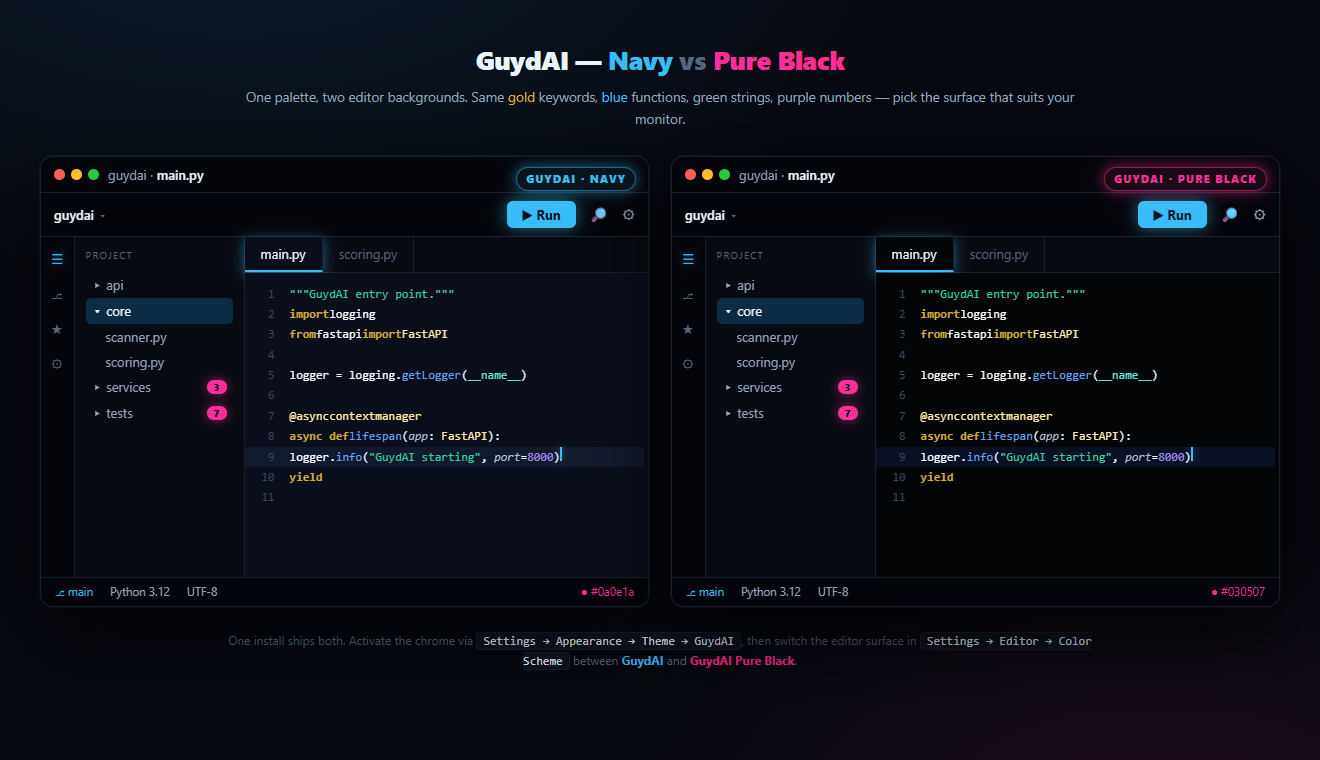
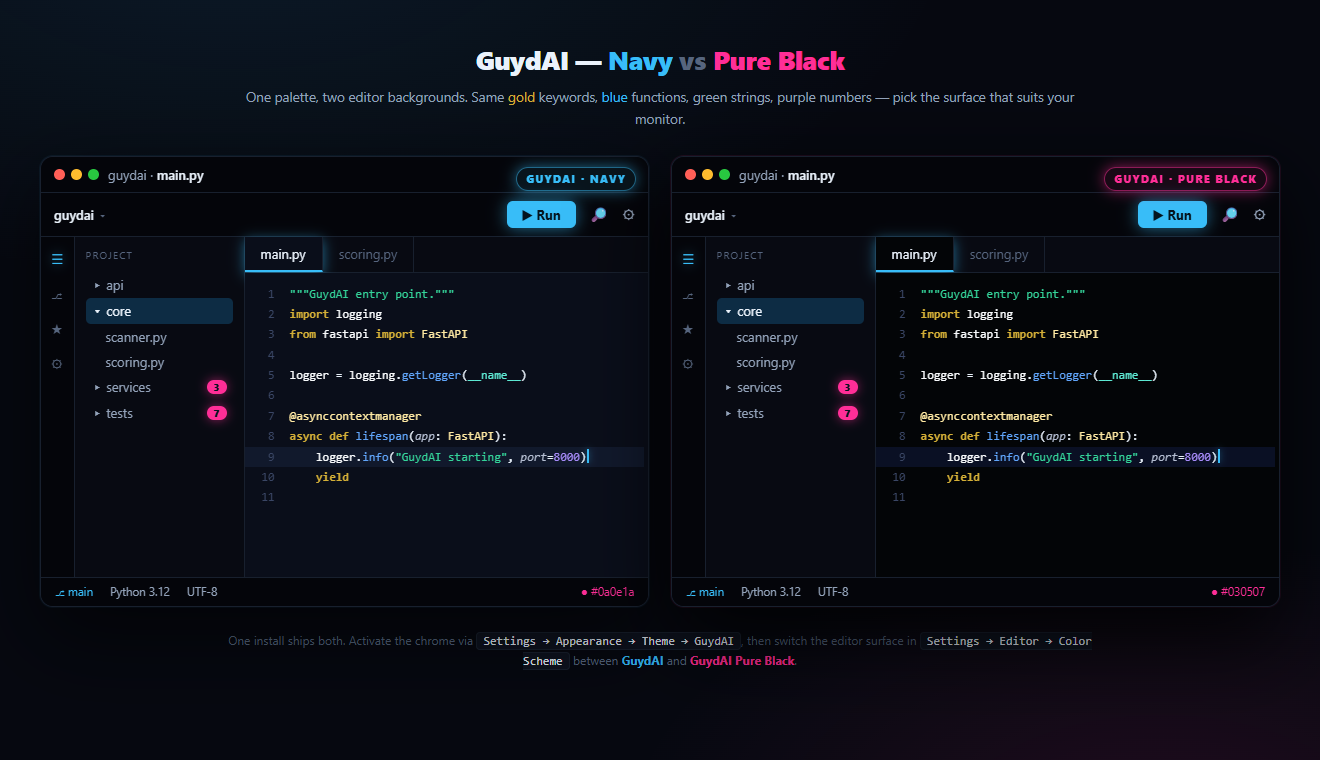
Add classic-vs-Islands preview; fix code spacing in mockups
- New preview/islands.{html,png} showing the classic and Islands layouts
- Fix collapsed spaces/indentation in all editor mockups (flex rows were
  dropping whitespace-only text nodes) and re-render the PNGs
- README and PUBLISH reference the new image

diff --git a/preview/islands.html b/preview/islands.html
@@ -3,24 +3,17 @@
 <head>
 <meta charset="utf-8">
 <meta name="viewport" content="width=device-width, initial-scale=1">
-<title>GuydAI — Navy vs Pure Black</title>
+<title>GuydAI — Classic vs Islands</title>
 <style>
   :root {
     font-family: -apple-system, BlinkMacSystemFont, 'Segoe UI', Roboto, sans-serif;
-    --black:#04050a; --chrome:#080a12; --card:#0e131f; --bd:#18202e; --bdl:#263141;
-    --blue:#38bdf8; --pink:#ff2e97; --green:#34d399;
+    --black:#04050a; --chrome:#080a12; --card:#0e131f; --bd:#18202e;
+    --blue:#38bdf8; --pink:#ff2e97;
     --tx:#eaf2fb; --dim:#93a3ba; --mut:#56657e;
     --sel:#0d2c44; --ink:#04141f;
     --pglow:rgba(56,189,248,.55); --kglow:rgba(255,46,151,.55);
-
-    /* per-scheme editor bg */
-    --navy:#0a0e1a; --navyCr:#11192c;
-    --black2:#030507; --black2Cr:#0a1024;
-
-    /* syntax (shared) */
-    --kw:#d4af37; --st:#34d399; --nu:#a78bfa; --cm:#6b7591;
-    --fn:#60a5fa; --cl:#ffe9a3; --bi:#5eead4; --pa:#b4bdd1; --df:#f8fafc;
-    --ln:#3a4665;
+    --ed:#030507; --cr:#0a1024;
+    --island:#030507; --gap:#1a2236;
   }
   * { box-sizing: border-box; }
   html { background:#060810; }
@@ -29,133 +22,87 @@
       radial-gradient(1200px 600px at 18% -10%, rgba(56,189,248,.10), transparent 60%),
       radial-gradient(900px 500px at 88% 110%, rgba(255,46,151,.10), transparent 60%),
       #060810;
-    color:var(--tx); padding:42px 26px 60px;
+    color:var(--tx); padding:42px 26px 52px;
     display:flex; flex-direction:column; align-items:center;
-    min-height:100vh;
   }
   .hdr { text-align:center; margin:0 0 26px; max-width:880px; }
   h1 { font-size:26px; font-weight:800; letter-spacing:-.4px; margin:0 0 8px; }
   h1 b { color:var(--blue); } h1 i { color:var(--pink); font-style:normal; }
   .cap { color:var(--dim); font-size:13.5px; margin:0; line-height:1.65; }
-  .cap .k { color:var(--pink); } .cap .b { color:var(--blue); } .cap .g { color:#d4af37; }
+  .cap .k { color:var(--pink); } .cap .b { color:var(--blue); }
 
-  .pair {
-    display:grid; grid-template-columns:1fr 1fr; gap:22px;
-    width:100%; max-width:1240px;
-  }
+  .pair { display:grid; grid-template-columns:1fr 1fr; gap:22px; width:100%; max-width:1240px; }
 
-  .win {
-    border-radius:13px; overflow:hidden; border:1px solid var(--bd);
-    box-shadow:0 30px 80px rgba(0,0,0,.65);
-    font-size:13px; position:relative;
-    backdrop-filter: blur(4px);
-  }
-  .win.navy   { box-shadow:0 30px 80px rgba(0,0,0,.6), 0 0 0 1px rgba(56,189,248,.07); }
-  .win.pb     { box-shadow:0 30px 80px rgba(0,0,0,.85), 0 0 0 1px rgba(255,46,151,.10); }
+  .win { border-radius:13px; overflow:hidden; border:1px solid var(--bd); font-size:13px; position:relative;
+    box-shadow:0 30px 80px rgba(0,0,0,.7); display:flex; flex-direction:column; }
+  .classic { box-shadow:0 30px 80px rgba(0,0,0,.7), 0 0 0 1px rgba(56,189,248,.07); }
+  .isl     { box-shadow:0 30px 80px rgba(0,0,0,.7), 0 0 0 1px rgba(255,46,151,.10); background:var(--gap); }
 
-  .label {
-    position:absolute; top:10px; right:12px; z-index:2;
-    font-size:10.5px; font-weight:800; letter-spacing:1.4px; text-transform:uppercase;
-    padding:4px 9px; border-radius:999px; border:1px solid;
-  }
-  .win.navy .label { color:var(--blue); border-color:rgba(56,189,248,.5); background:rgba(56,189,248,.08); box-shadow:0 0 14px var(--pglow); }
-  .win.pb   .label { color:var(--pink); border-color:rgba(255,46,151,.5); background:rgba(255,46,151,.08); box-shadow:0 0 14px var(--kglow); }
+  .label { position:absolute; top:10px; right:12px; z-index:2; font-size:10.5px; font-weight:800;
+    letter-spacing:1.4px; text-transform:uppercase; padding:4px 9px; border-radius:999px; border:1px solid; }
+  .classic .label { color:var(--blue); border-color:rgba(56,189,248,.5); background:rgba(56,189,248,.08); box-shadow:0 0 14px var(--pglow); }
+  .isl .label     { color:var(--pink); border-color:rgba(255,46,151,.5); background:rgba(255,46,151,.08); box-shadow:0 0 14px var(--kglow); }
 
-  .titlebar {
-    display:flex; align-items:center; gap:9px;
-    padding:9px 13px; background:var(--black); color:var(--dim);
-    border-bottom:1px solid var(--bd);
-  }
-  .dots { display:flex; gap:6px; }
-  .dots i { width:11px; height:11px; border-radius:50%; display:block; }
+  .titlebar { display:flex; align-items:center; gap:9px; padding:9px 13px; color:var(--dim); }
+  .dots { display:flex; gap:6px; } .dots i { width:11px; height:11px; border-radius:50%; display:block; }
   .titlebar .t b { color:var(--tx); font-weight:600; }
-
-  .toolbar {
-    display:flex; align-items:center; gap:13px;
-    padding:8px 13px; background:var(--black);
-    border-bottom:1px solid var(--bd);
-  }
-  .toolbar .proj { color:var(--tx); font-weight:600; }
-  .toolbar .proj small { color:var(--mut); }
-  .run {
-    margin-left:auto; background:var(--blue); color:var(--ink);
-    padding:5px 15px; border-radius:6px; font-weight:700;
-    box-shadow:0 0 16px var(--pglow);
-  }
+  .toolbar { display:flex; align-items:center; gap:13px; padding:8px 13px; }
+  .toolbar .proj { color:var(--tx); font-weight:600; } .toolbar .proj small { color:var(--mut); }
+  .run { margin-left:auto; background:var(--blue); color:var(--ink); padding:5px 15px; border-radius:6px; font-weight:700; box-shadow:0 0 16px var(--pglow); }
   .ic { color:var(--dim); font-size:15px; }
 
-  .bodyrow { display:flex; background:var(--chrome); min-height:340px; }
-  .stripe {
-    display:flex; flex-direction:column; gap:16px;
-    padding:12px 10px; background:var(--black);
-    border-right:1px solid var(--bd); color:var(--mut); font-size:14px;
-  }
+  .classic .titlebar, .classic .toolbar { background:var(--black); border-bottom:1px solid var(--bd); }
+
+  .bodyrow { display:flex; min-height:340px; flex:1; }
+  .stripe { display:flex; flex-direction:column; gap:16px; padding:12px 10px; color:var(--mut); font-size:14px; }
   .stripe .on { color:var(--blue); text-shadow:0 0 11px var(--pglow); }
-  .tree {
-    width:170px; padding:11px 11px;
-    border-right:1px solid var(--bd); color:var(--dim);
-  }
+  .tree { width:170px; padding:11px; color:var(--dim); }
   .tree .h { color:var(--mut); text-transform:uppercase; font-size:10px; letter-spacing:1.2px; margin-bottom:10px; }
   .tree .row { padding:4px 6px; border-radius:5px; white-space:nowrap; display:flex; align-items:center; }
   .tree .row.sel { background:var(--sel); color:var(--tx); }
   .tree .row.ind { padding-left:20px; }
-  .badge {
-    background:var(--pink); color:var(--ink);
-    border-radius:9px; padding:0 7px; font-size:10px; font-weight:800;
-    margin-left:auto; box-shadow:0 0 11px var(--kglow);
-  }
+  .badge { background:var(--pink); color:var(--ink); border-radius:9px; padding:0 7px; font-size:10px; font-weight:800; margin-left:auto; box-shadow:0 0 11px var(--kglow); }
 
-  .main { flex:1; display:flex; flex-direction:column; min-width:0; position:relative; }
-  .tabs { display:flex; background:var(--chrome); border-bottom:1px solid var(--bd); }
-  .tab { padding:8px 16px; color:var(--mut); border-right:1px solid var(--bd); }
-  .tab.active { color:var(--tx); border-bottom:2px solid var(--blue); box-shadow:0 3px 13px var(--pglow); }
-
-  .editor {
-    flex:1; padding:11px 4px 16px 0;
-    font-family:'JetBrains Mono',Consolas,Menlo,monospace;
-    font-size:12px; line-height:1.7;
-  }
-  .navy .tab.active { background:var(--navy); }
-  .navy .editor    { background:var(--navy); }
-  .navy .line.cr   { background:var(--navyCr); }
-
-  .pb .tab.active { background:var(--black2); }
-  .pb .editor    { background:var(--black2); }
-  .pb .line.cr   { background:var(--black2Cr); }
-
-  .line { display:block; white-space:pre; }
-  .ln { display:inline-block; color:var(--ln); width:30px; text-align:right; margin-right:15px; user-select:none; }
-  .kw{color:var(--kw);font-weight:700;} .st{color:var(--st);} .nu{color:var(--nu);}
-  .cm{color:var(--cm);font-style:italic;} .fn{color:var(--fn);} .cl{color:var(--cl);}
-  .bi{color:var(--bi);} .pa{color:var(--pa);font-style:italic;} .df{color:var(--df);}
+  .main { flex:1; display:flex; flex-direction:column; min-width:0; }
+  .tabs { display:flex; }
+  .tab { padding:8px 16px; color:var(--mut); }
+  .tab.active { color:var(--tx); border-bottom:2px solid var(--blue); box-shadow:0 3px 13px var(--pglow); background:var(--ed); }
+  .editor { flex:1; background:var(--ed); padding:11px 4px 16px 0; font-family:'JetBrains Mono',Consolas,Menlo,monospace; font-size:12px; line-height:1.7; }
+  .line { display:block; white-space:pre; } .line.cr { background:var(--cr); }
+  .ln { display:inline-block; color:#3a4665; width:30px; text-align:right; margin-right:15px; }
+  .kw{color:#d4af37;font-weight:700;} .st{color:#34d399;} .nu{color:#a78bfa;}
+  .fn{color:#60a5fa;} .cl{color:#ffe9a3;} .bi{color:#5eead4;} .pa{color:#b4bdd1;font-style:italic;} .df{color:#f8fafc;}
   .caret{display:inline-block;width:2px;height:14px;background:var(--blue);vertical-align:-2px;box-shadow:0 0 7px var(--pglow);}
 
-  .statusbar {
-    display:flex; align-items:center; gap:17px;
-    padding:6px 14px; background:var(--black);
-    border-top:1px solid var(--bd); color:var(--dim); font-size:11.5px;
-  }
-  .statusbar .br { color:var(--blue); }
-  .statusbar .enc { color:var(--pink); margin-left:auto; }
+  .statusbar { display:flex; align-items:center; gap:17px; padding:6px 14px; color:var(--dim); font-size:11.5px; }
+  .statusbar .br { color:var(--blue); } .statusbar .enc { color:var(--pink); margin-left:auto; }
 
-  .footnote {
-    margin-top:24px; color:var(--mut); font-size:12px; text-align:center;
-    max-width:880px; line-height:1.6;
-  }
-  .footnote code { color:var(--tx); background:#0e131f; padding:1px 6px; border-radius:4px; border:1px solid var(--bd); }
+  /* classic: flat, edge-to-edge panels separated by 1px lines */
+  .classic .bodyrow { background:var(--chrome); }
+  .classic .stripe { background:var(--black); border-right:1px solid var(--bd); }
+  .classic .tree { border-right:1px solid var(--bd); }
+  .classic .tabs { background:var(--chrome); border-bottom:1px solid var(--bd); }
+  .classic .tab { border-right:1px solid var(--bd); }
+  .classic .statusbar { background:var(--black); border-top:1px solid var(--bd); }
+
+  /* islands: rounded floating panels on a lighter main-window background */
+  .isl .bodyrow { gap:5px; padding:0 5px; }
+  .isl .tree, .isl .main { background:var(--island); border-radius:10px; overflow:hidden; }
+  .isl .tabs { background:var(--island); }
+  .isl .tab.active { background:var(--island); }
+  .isl .statusbar { padding-top:7px; }
 </style>
 </head>
 <body>
   <div class="hdr">
-    <h1>GuydAI — <b>Navy</b> <span style="color:var(--mut)">vs</span> <i>Pure Black</i></h1>
-    <p class="cap">One palette, two editor backgrounds. Same <span class="g">gold</span> keywords,
-      <span class="b">blue</span> functions, green strings, purple numbers — pick the surface that suits your monitor.</p>
+    <h1>GuydAI — <b>Classic</b> <span style="color:var(--mut)">vs</span> <i>Islands</i></h1>
+    <p class="cap">Same Cyber Ice accents, two layouts. <span class="b">Classic</span> keeps flat, edge-to-edge panels;
+      <span class="k">Islands</span> floats each tool window as a rounded pure-black card (2025.3+).</p>
   </div>
 
   <div class="pair">
-    <!-- ── LEFT: GuydAI (Navy) ── -->
-    <div class="win navy">
-      <span class="label">GuydAI · Navy</span>
+    <div class="win classic">
+      <span class="label">GuydAI · Classic</span>
       <div class="titlebar">
         <div class="dots"><i style="background:#ff5f57"></i><i style="background:#febc2e"></i><i style="background:#28c840"></i></div>
         <div class="t">guydai · <b>main.py</b></div>
@@ -193,12 +140,11 @@
           </div>
         </div>
       </div>
-      <div class="statusbar"><span class="br">&#9095; main</span><span>Python 3.12</span><span>UTF-8</span><span class="enc">&#9679; #0a0e1a</span></div>
+      <div class="statusbar"><span class="br">&#9095; main</span><span>Python 3.12</span><span>UTF-8</span><span class="enc">&#9679; flat</span></div>
     </div>
 
-    <!-- ── RIGHT: GuydAI Pure Black ── -->
-    <div class="win pb">
-      <span class="label">GuydAI · Pure Black</span>
+    <div class="win isl">
+      <span class="label">GuydAI · Islands</span>
       <div class="titlebar">
         <div class="dots"><i style="background:#ff5f57"></i><i style="background:#febc2e"></i><i style="background:#28c840"></i></div>
         <div class="t">guydai · <b>main.py</b></div>
@@ -236,15 +182,8 @@
           </div>
         </div>
       </div>
-      <div class="statusbar"><span class="br">&#9095; main</span><span>Python 3.12</span><span>UTF-8</span><span class="enc">&#9679; #030507</span></div>
+      <div class="statusbar"><span class="br">&#9095; main</span><span>Python 3.12</span><span>UTF-8</span><span class="enc">&#9679; islands</span></div>
     </div>
   </div>
-
-  <p class="footnote">
-    One install ships both. Activate the chrome via
-    <code>Settings → Appearance → Theme → GuydAI</code>, then switch the editor surface in
-    <code>Settings → Editor → Color Scheme</code> between <b style="color:var(--blue)">GuydAI</b> and
-    <b style="color:var(--pink)">GuydAI Pure Black</b>.
-  </p>
 </body>
 </html>

diff --git a/preview/pure-black.html b/preview/pure-black.html
@@ -11,6 +11,7 @@
     --sel:#0d2c44; --ink:#04141f; --pglow:rgba(56,189,248,.5); --kglow:rgba(255,46,151,.55);
     --bg:#030507; --cr:#0a1024; }
   * { box-sizing: border-box; }
+  html { background:#060810; }
   body { margin:0; background:#060810; color:var(--tx); padding:34px 22px 60px; display:flex; flex-direction:column; align-items:center; }
   h1 { font-size:23px; font-weight:800; letter-spacing:-.4px; margin:0 0 4px; }
   h1 b { color:var(--blue); } h1 i { color:var(--pink); font-style:normal; }
@@ -45,8 +46,8 @@
   .tab { padding:8px 16px; color:var(--mut); border-right:1px solid var(--bd); }
   .tab.active { color:var(--tx); background:var(--bg); border-bottom:2px solid var(--blue); box-shadow:0 3px 13px var(--pglow); }
   .editor { flex:1; background:var(--bg); padding:11px 4px 16px 0; font-family:'JetBrains Mono',Consolas,Menlo,monospace; font-size:12px; line-height:1.7; }
-  .line { display:flex; white-space:pre; } .line.cr { background:var(--cr); }
-  .ln { color:#3a4665; width:30px; text-align:right; margin-right:15px; user-select:none; flex:none; }
+  .line { display:block; white-space:pre; } .line.cr { background:var(--cr); }
+  .ln { display:inline-block; color:#3a4665; width:30px; text-align:right; margin-right:15px; user-select:none; }
   .kw{color:#d4af37;font-weight:700;} .st{color:#34d399;} .nu{color:#a78bfa;}
   .cm{color:#6b7591;font-style:italic;} .fn{color:#60a5fa;} .cl{color:#ffe9a3;}
   .bi{color:#5eead4;} .pa{color:#b4bdd1;font-style:italic;} .df{color:#f8fafc;}

diff --git a/PUBLISH.md b/PUBLISH.md
@@ -41,8 +41,9 @@ The form will show some fields the `.jar` can't pre-fill. Use these:
 ### 4. Add screenshots
 Upload from `preview/`:
 1. `side-by-side.png` — navy vs pure-black editor schemes (lead shot).
-2. `pure-black.png` — the standalone pure-black variant.
-3. `cyber-ice.png` — the original Cyber Ice + navy editor shot.
+2. `islands.png` — classic vs Islands layout (the GuydAI Islands theme, 2025.3+).
+3. `pure-black.png` — the standalone pure-black variant.
+4. `cyber-ice.png` — the original Cyber Ice + navy editor shot.
 
 You can add up to 5. The `.html` files in `preview/` are sources you can re-render
 at any time if you want more variations.

diff --git a/README.md b/README.md
@@ -19,6 +19,8 @@ It ships as independent layers:
 On the **Islands** UI (2025.3+), pick **GuydAI Islands** in the Theme dropdown instead.
 It uses the same Cyber Ice accents on rounded pure-black islands.
 
+![GuydAI — Classic vs Islands](preview/islands.png)
+
 One install ships both editor schemes — pick whichever fits your monitor in
 **Settings → Editor → Color Scheme**.
 
